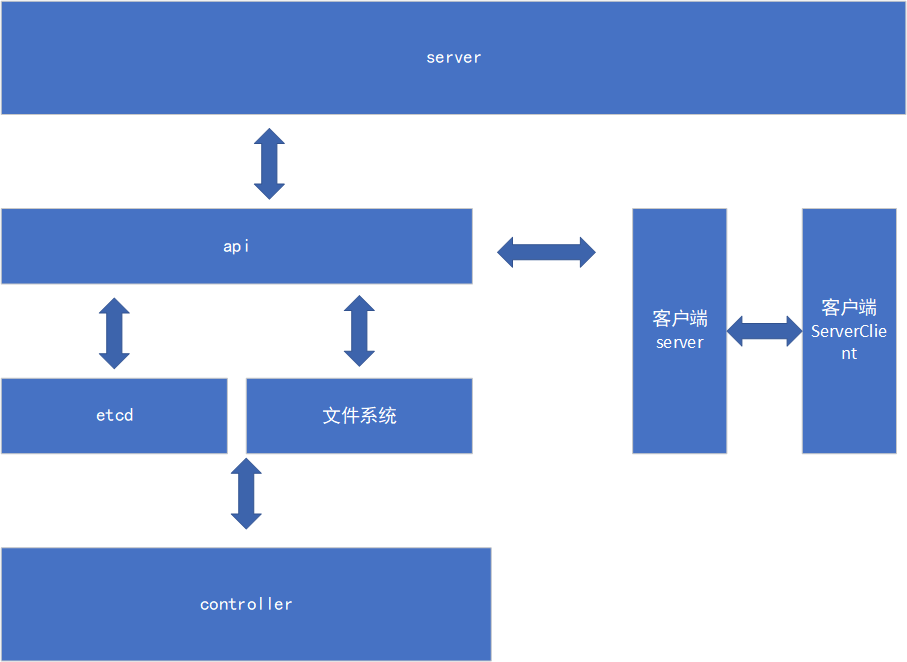
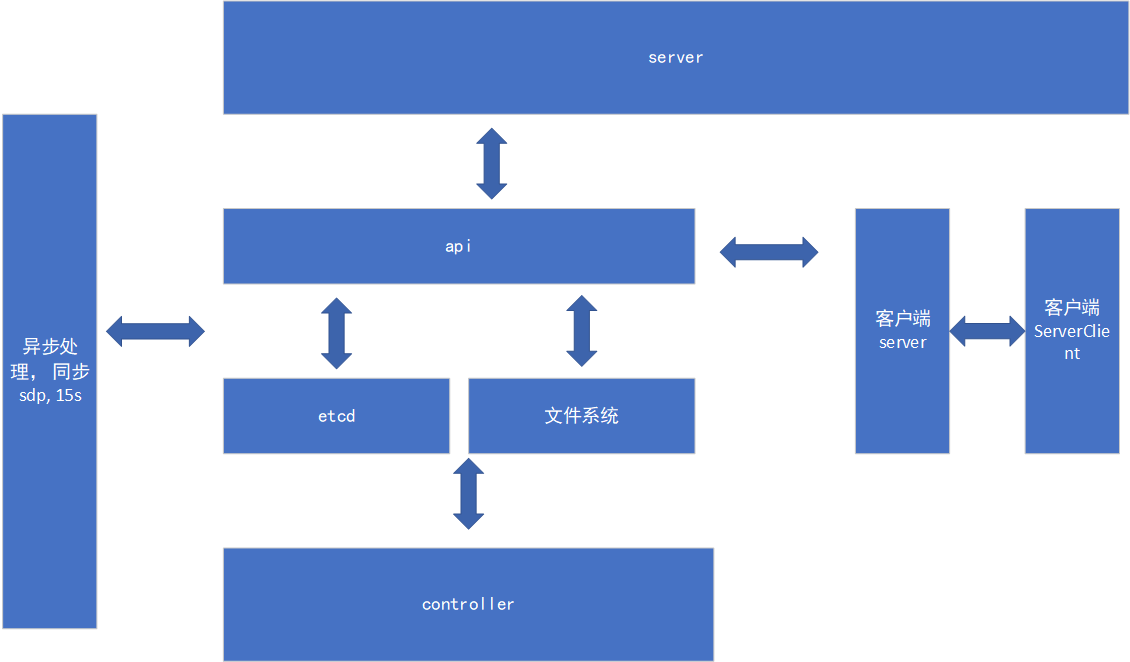
段安装/卸载

diff --git a/第三周工作/软件设计文档.md b/第三周工作/软件设计文档.md
@@ -2,7 +2,7 @@
 1. 与15s软件商店同步
 2. 与软件安装部署同步
 3. 实现对软件段的管理
-4. 对软件段的卸载/删除
+4. 对软件段的卸载/安装
 5. 对软件段的删除, 安装, 卸载等操作要使用异步处理的方式同步到sdp
 ## 总体设计
 ![总体图](../%E7%AC%AC%E4%B8%89%E5%91%A8%E5%B7%A5%E4%BD%9C/%E8%AE%BE%E8%AE%A1%E6%80%BB%E4%BD%93.png)
@@ -26,37 +26,19 @@
 3. 最终将解析完毕的数据返回前端显示 
 ![获取软件段列表](../%E7%AC%AC%E4%B8%89%E5%91%A8%E5%B7%A5%E4%BD%9C/%E8%8E%B7%E5%8F%96%E8%BD%AF%E4%BB%B6%E6%AE%B5%E5%88%97%E8%A1%A8.png)
 ### 获取某个软件段的所有版本
-首先根据前端传来数据对指定的软件版本获取所有的版本, 通过前端传递数据查询etcd得到软件段是否被删除的状态, 如果该软件段已经被删除, 那就不存在所有的版本; 未被删除使用软件段前缀并且去etcd中查询软件段的所有版本, 并且返回数据前端展示.  
+1. 用户请求获取指定软件段的所有版本, 用户传入软件段id
+2. 通过id查询etcd中是否存在该软件段, 如果不存在退出逻辑; 存在, 通过软件段的前缀从etcd中获取该软件段的所有版本
+3. 将获取到的软件段所有版本信息返回前端展示 
 ![获取某个软件段的所有版本](../%E7%AC%AC%E4%B8%89%E5%91%A8%E5%B7%A5%E4%BD%9C/%E8%8E%B7%E5%8F%96%E6%9F%90%E4%B8%AA%E8%BD%AF%E4%BB%B6%E6%AE%B5%E7%9A%84%E6%89%80%E6%9C%89%E7%89%88%E6%9C%AC.png)
 ### 更新段绑定的席位列表信息
-通过前端传递数据查询etcd得到软件段的绑定的列表信息, 根据segid查询软件段的段绑定席位的状态, 通过解析软件段详情获取前缀并且调用etcd接口去更新相同前缀的段的关联席位, 将新的软件段详情信息传给前端.
+1. 用户请求获取软件段绑定的席位信息, 传入软件段id
+2. 通过id查询软件段是否存在与etcd中, 不存在退出逻辑; 存在, 根据前缀更新软件段所有版本的席位列表信息, 而后将软件段的的席位信息展示给前端.
 ![更新段绑定的席位列表信息](../%E7%AC%AC%E4%B8%89%E5%91%A8%E5%B7%A5%E4%BD%9C/%E6%9B%B4%E6%96%B0%E6%AE%B5%E7%BB%91%E5%AE%9A%E7%9A%84%E5%B8%AD%E4%BD%8D%E5%88%97%E8%A1%A8%E4%BF%A1%E6%81%AF.png)
-### 段卸载检测
-根据前端获取的软件段id, 从数据库中获取数据软件段详情, 通过软件段前缀获取它的席位信息, 筛选出不是当前段但是已经安装的段记录, 并且从中找到依赖当前段的段前缀加入到返回的结果中, 最后返回被依赖信息的结果信息.
-![段卸载检测](../%E7%AC%AC%E4%B8%89%E5%91%A8%E5%B7%A5%E4%BD%9C/%E6%AE%B5%E5%AE%89%E8%A3%85%E6%A3%80%E6%B5%8B.png)
-### 段卸载
-通过前端获取的软件段的id从etcd中查询到要卸载的软件段详情, 并且将重复IP的节点排除, 卸载时传入所有已安装的节点, 而后将席位安装记录更新, 完成逻辑上的卸载.
-![段卸载](../%E7%AC%AC%E4%B8%89%E5%91%A8%E5%B7%A5%E4%BD%9C/%E6%AE%B5%E5%8D%B8%E8%BD%BD1.png)  
-etcd后台监视, 发现有NewObj产生, 而后调用addEvent事件, 段安装controller启动时会先接收到event, 并且插入到workqueue, 卸载成功后更新软件段的安装记录.
-![段卸载子流程](../%E7%AC%AC%E4%B8%89%E5%91%A8%E5%B7%A5%E4%BD%9C/%E6%AE%B5%E5%8D%B8%E8%BD%BD.png)
-### 查询段安装记录详情
-从前端获取安装时的InstallId, 根据id从etcd缓存中查询所有详情并且返回安装记录详情;
-![查询段安装记录详情](../%E7%AC%AC%E4%B8%89%E5%91%A8%E5%B7%A5%E4%BD%9C/%E6%9F%A5%E8%AF%A2%E6%AE%B5%E5%AE%89%E8%A3%85%E8%AE%B0%E5%BD%95%E8%AF%A6%E6%83%85.png)
-### 段安装记录列表
-根据前端获取的id从etcd中查询到该软件段是否存在, 而后从etcd缓存中查找安装记录列表, 并且按照时间的倒叙排序;
-![查找安装记录列表](../%E7%AC%AC%E4%B8%89%E5%91%A8%E5%B7%A5%E4%BD%9C/%E6%AE%B5%E5%AE%89%E8%A3%85%E8%AE%B0%E5%BD%95%E5%88%97%E8%A1%A8.png)
-
-### 删除段上传缓存
-1. 
-根据upload 上传返回的uid, 查询上传的缓存地址, 并且删除地址以及缓存文件, 返回结果.
-### 下载段文件
-1. 
-根据段文件id 获取软件段详情, 并且根据common中的DownloadUrl和文件名组成下载地址并且返回, 后端使用下载地址调用ctx中的包完成下载;
-### 段安装
-通过前端传递的软件段id从etcd 中获取软件段详情, 获取失败返回错误; 获取成功, 如果席位列表为空, 返回软件段安装席位为空;检测是否该软件段已经被安装, 如果没有被安装则根据获取的软件段详情查看是否依赖形成环路, 最后获取席位信息并且更新席位安装记录(写入etcd).
-![段安装](../%E7%AC%AC%E4%B8%89%E5%91%A8%E5%B7%A5%E4%BD%9C/%E6%AE%B5%E5%AE%89%E8%A3%85.png)  
-etcd后台监视, 发现有NewObj产生, 而后调用addEvent事件, 段安装controller启动时会先接收到event, 并且插入到workqueue, 而后拿到obj处理安装, 安装成功后更新软件段的安装记录.
-![段安装controller](../%E7%AC%AC%E4%B8%89%E5%91%A8%E5%B7%A5%E4%BD%9C/%E6%AE%B5%E5%AE%89%E8%A3%851.png)
+### 段安装/卸载
+1. 用户请求把段安装到席位列表中，调用服务端安装段接口，传入段id和席位列表
+2. 服务端通过段id获取到段记录，判断段是否同步成功，未同步成功直接返回段不可安装；否则，新建段安装记录（`SegInstallRecord`），对比段已安装席位和传入的席位列表，对于新席位，执行安装（写入到`installSeatList`中），而移除的席位，执行卸载（写入到`uninstallSeatList`中），已安装席位不做处理，整理好的安装记录（`SegInstallRecord`）写入etcd中
+3. 段安装控制器监听到段安装记录新增事件，根据安装记录中的`installSeatList`和`uninstallSeatList`，整理出需要安装的节点ip列表以及需要卸载的节点ip列表，通过`SDP client`调用rpc接口批量安装/卸载（传入设备ip列表以及段在`SDP`中的id），获取到批量安装/卸载的任务id，并且启动定时器调用rpc接口传入任务id轮询安装/卸载的进度，计算安装`percent`，将进度、时间、状态等更新到段安装日志中，安装/卸载成功后，更新段记录的已安席位信息.
+![](../%E7%AC%AC%E4%B8%89%E5%91%A8%E5%B7%A5%E4%BD%9C/%E6%AE%B5%E5%AE%89%E8%A3%85.png)
 ### 数据同步实现
 通过`SDP client`拉取`SDP`中的段列表，与etcd中存储的段列表进行比对
 1. 对于新增的段，通过`SDP client`从`SDP`中下载对应的段文件保存到共享存储，并解析段文件获取段基本信息构建段记录，向etcd中插入段记录（设置其`isLocal`字段为`false`，代表段非本地上传）
